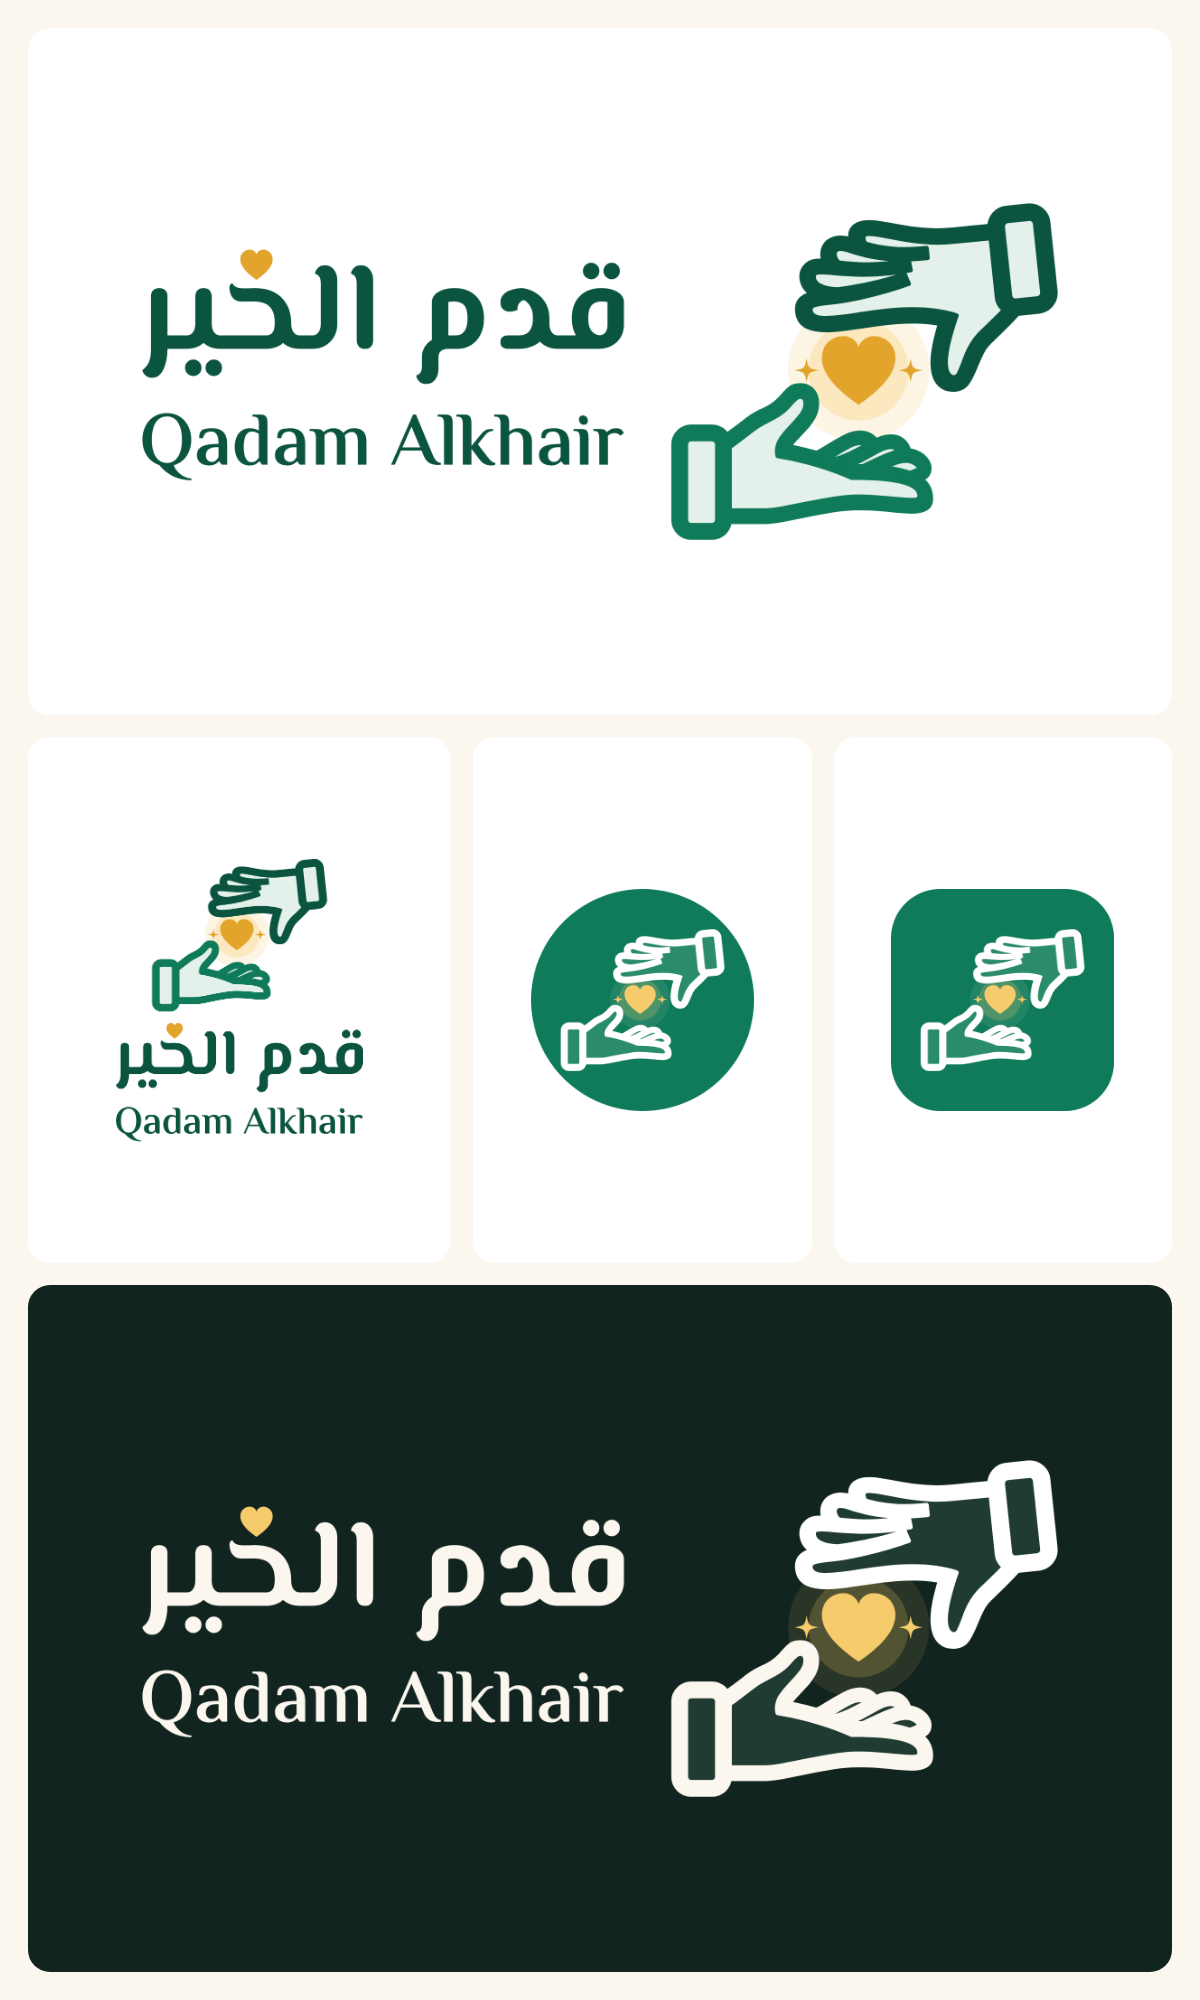
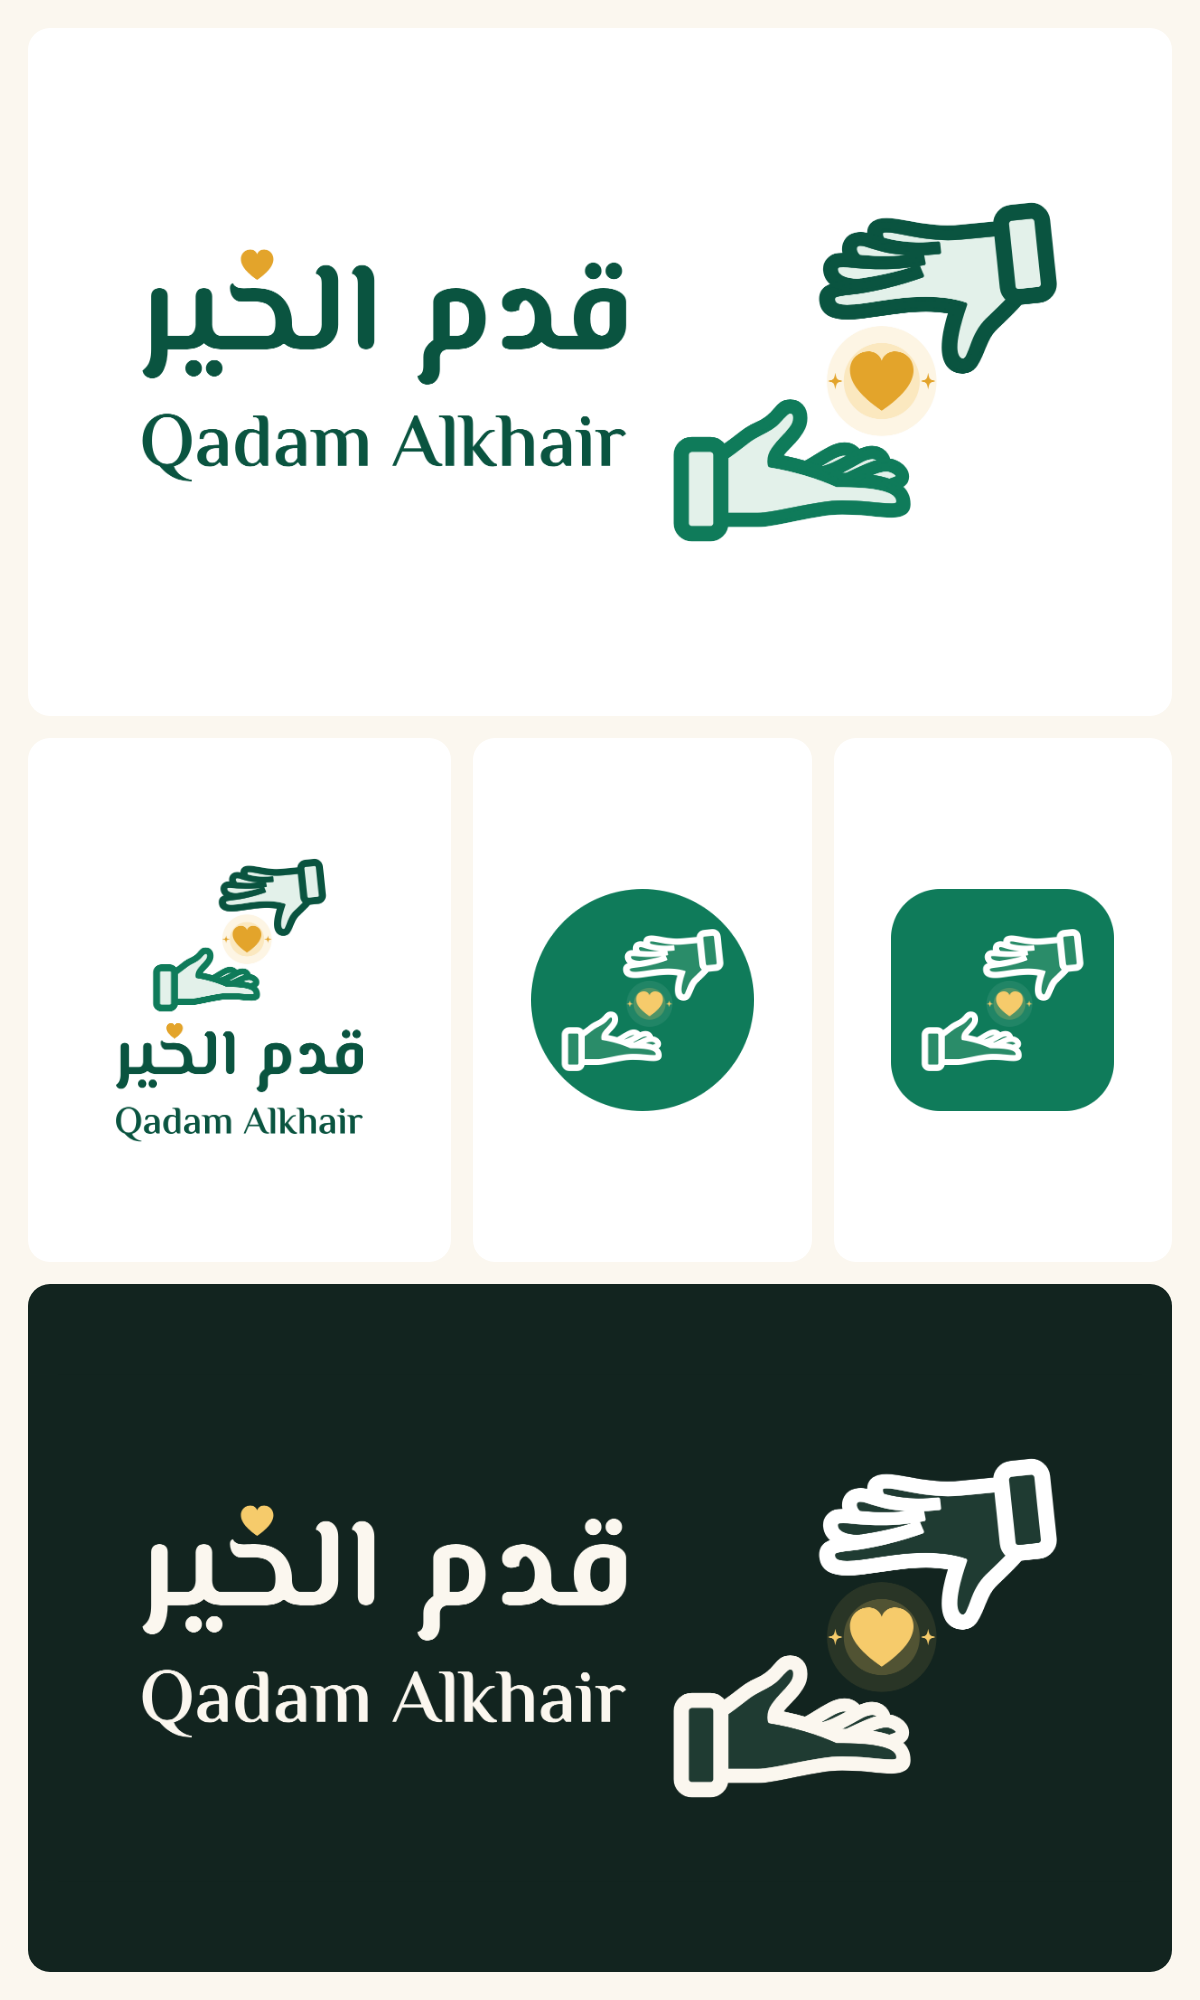
Two hands, round 3: keep the light and sparkles clear of the hands
The glow and the sparkles overlapped the fingers. The hands now move
apart a little, and the light, the heart and the sparkles sit inside
the largest circle that touches neither hand, with an even gap.

Claude-Session: https://claude.ai/code/session_01LFEZLNbpHHcGTMFhSMiQaG

diff --git a/brand/qadam-alkhair/explorations/hands-src/clear.py b/brand/qadam-alkhair/explorations/hands-src/clear.py
@@ -1,0 +1,55 @@
+# -*- coding: utf-8 -*-
+"""How big a circle fits between the two hands (with no overlap), for a given spread."""
+import os, subprocess, tempfile
+import numpy as np
+from PIL import Image
+import a2
+
+CHROME = "/opt/pw-browsers/chromium_headless_shell-1194/chrome-linux/headless_shell"
+PX = 2
+
+
+def hands(spread=0.0, lift=0.0, rot=-6):
+    """Giver moves up-right and receiver down-left by `spread`; both move up by `lift`."""
+    top = a2.place("palmDownHand", 64 + spread, 18 - spread - lift, 124, "#000", mirror=True, rot=rot, sw=40, wrist="cuff", style="tint", tint="#000", bg="#000")
+    bot = a2.place("palmUpHand", 12 - spread, 108 + spread - lift, 124, "#000", sw=40, wrist="cuff", style="tint", tint="#000", bg="#000")
+    return top + bot
+
+
+def mask(markup, lo=-40, size=280):
+    W = size * PX
+    html = (f'<html><body style="margin:0;background:#fff"><svg xmlns="http://www.w3.org/2000/svg" viewBox="{lo} {lo} {size} {size}" '
+            f'width="{W}" height="{W}">{markup}</svg></body></html>')
+    with tempfile.NamedTemporaryFile("w", suffix=".html", delete=False) as f:
+        f.write(html)
+    png = f.name + ".png"
+    subprocess.run([CHROME, "--headless", "--no-sandbox", "--disable-gpu", "--hide-scrollbars", f"--window-size={W},{W}",
+                    f"--screenshot={png}", "file://" + f.name], capture_output=True)
+    a = np.asarray(Image.open(png).convert("L")) < 128
+    os.unlink(f.name); os.unlink(png)
+    return a
+
+
+def best_circle(spread=0.0, lift=0.0, lo=-40, size=280, near=(97, 100), search=25, rot=-6):
+    """Centre (near `near`) of the largest circle touching no hand, and its radius."""
+    m = mask(hands(spread, lift, rot), lo, size)
+    edge = m & ~(np.roll(m, 1, 0) & np.roll(m, -1, 0) & np.roll(m, 1, 1) & np.roll(m, -1, 1))
+    ey, ex = np.nonzero(edge)
+    pts = np.stack([lo + ex / PX, lo + ey / PX], 1)
+    cx, cy = near
+    gx, gy = np.meshgrid(np.arange(cx - search, cx + search + 0.1, 0.5), np.arange(cy - search, cy + search + 0.1, 0.5))
+    cand = np.stack([gx.ravel(), gy.ravel()], 1)
+    best = np.full(len(cand), np.inf)
+    for i in range(0, len(pts), 4000):
+        d = np.sqrt(((cand[:, None, :] - pts[None, i:i + 4000, :]) ** 2).sum(-1)).min(1)
+        best = np.minimum(best, d)
+    # a candidate inside a hand is no good
+    inside = m[((cand[:, 1] - lo) * PX).astype(int).clip(0, m.shape[0] - 1), ((cand[:, 0] - lo) * PX).astype(int).clip(0, m.shape[1] - 1)]
+    best[inside] = 0
+    k = int(np.argmax(best))
+    return float(cand[k, 0]), float(cand[k, 1]), float(best[k])
+
+
+if __name__ == "__main__":
+    for spread in (0, 4, 8, 12):
+        print(spread, [round(v, 1) for v in best_circle(spread)])

diff --git a/brand/qadam-alkhair/explorations/hands-src/a3b.py b/brand/qadam-alkhair/explorations/hands-src/a3b.py
@@ -1,0 +1,36 @@
+# -*- coding: utf-8 -*-
+"""Round 3, fixed: the light, the heart and the sparkles sit in the clear space between
+the hands — nothing touches a hand."""
+import math
+import a2, hands3 as H
+import clear
+
+GOLD, GLOW_O, GLOW_I = a2.GOLD, "#FDF5E4", "#FBE8BF"
+
+
+def icon(spread=8, gap=6, band=10, heart_s=0.82, spark_r=4.6, spark_at="level", two=True,
+         green=a2.GREEN, gold=GOLD, glow=(GLOW_O, GLOW_I), giver=None, bg="#FFFFFF", tint="#E3F1EA",
+         glow_op=(1, 1), _cache={}):
+    key = spread
+    if key not in _cache:
+        _cache[key] = clear.best_circle(spread, near=(105, 105), search=18)
+    cx, cy, R = _cache[key]
+    kw = dict(sw=40, wrist="cuff", style="tint", tint=tint, bg=bg)
+    top = a2.place("palmDownHand", 64 + spread, 18 - spread, 124, giver or green, mirror=True, rot=-6, **kw)
+    bot = a2.place("palmUpHand", 12 - spread, 108 + spread, 124, green, **kw)
+    ro = R - gap
+    ri = ro - band if two else ro
+    g = ""
+    if glow:
+        g += f'<circle cx="{cx:.2f}" cy="{cy:.2f}" r="{ro:.2f}" fill="{glow[0]}" fill-opacity="{glow_op[0]}"/>'
+        if two:
+            g += f'<circle cx="{cx:.2f}" cy="{cy:.2f}" r="{ri:.2f}" fill="{glow[1]}" fill-opacity="{glow_op[1]}"/>'
+    # heart: centre its ink box on the light
+    g += H.heart(round(cx, 2), round(cy + 5.5 * heart_s, 2), heart_s, gold)
+    if spark_r:
+        rs = (ri + ro) / 2 if two else ro - spark_r - 1.5
+        angs = {"level": (0, 180), "high": (-38, 218)}[spark_at]
+        for a in angs:
+            t = math.radians(a)
+            g += a2.sparkle(round(cx + rs * math.cos(t), 2), round(cy + rs * math.sin(t), 2), spark_r, gold)
+    return top + bot + g, (cx, cy, R)

diff --git a/brand/qadam-alkhair/explorations/hands-src/a3_final.py b/brand/qadam-alkhair/explorations/hands-src/a3_final.py
@@ -1,24 +1,25 @@
 # -*- coding: utf-8 -*-
 """Option أ, third round — export the set and a one-page sheet."""
 import os, sys
-import kit as K, lock3 as L, a3, measure as M
+import kit as K, lock3 as L, a3, a3b, measure as M
 from shot import shot
 
 OUT = sys.argv[1] if len(sys.argv) > 1 else "a3out"
 os.makedirs(OUT, exist_ok=True)
 C = K.C
-LIGHT = dict(giver=C["green"])
-DARK = dict(green=C["cream"], gold=C["gold_lt"], tint="#1F3B32", bg=C["ink"], giver="#FFFFFF",
-            glow=((38, C["gold_lt"], 0.10), (27, C["gold_lt"], 0.20)))
-ONGREEN = dict(green="#FFFFFF", gold=C["gold_lt"], tint="#2A8C69", bg=C["step"],
-               glow=((38, "#FFFFFF", 0.08), (27, C["gold_lt"], 0.22)))
+SHAPE = dict(spread=10, heart_s=0.86, spark_r=5)
+LIGHT = dict(SHAPE, giver=C["green"])
+DARK = dict(SHAPE, green=C["cream"], gold=C["gold_lt"], tint="#1F3B32", bg=C["ink"], giver="#FFFFFF",
+            glow=(C["gold_lt"], C["gold_lt"]), glow_op=(0.10, 0.20))
+ONGREEN = dict(SHAPE, green="#FFFFFF", gold=C["gold_lt"], tint="#2A8C69", bg=C["step"],
+               glow=("#FFFFFF", C["gold_lt"]), glow_op=(0.08, 0.22))
 
 
 def fn(kw):
-    return lambda **_: a3.icon(**kw)
+    return lambda **_: a3b.icon(**kw)[0]
 
 
-BB = {k: M.ink_box(a3.icon(**v)) for k, v in (("light", LIGHT), ("dark", DARK), ("green", ONGREEN))}
+BB = {k: M.ink_box(fn(v)()) for k, v in (("light", LIGHT), ("dark", DARK), ("green", ONGREEN))}
 files = {
     "qadam-logo": (a3.horizontal(fn(LIGHT), BB["light"], bg="#FFFFFF"), 2400),
     "qadam-logo-stacked": (a3.stacked(fn(LIGHT), BB["light"], bg="#FFFFFF"), 1600),

diff --git a/brand/qadam-alkhair/explorations/hands-src/README.md b/brand/qadam-alkhair/explorations/hands-src/README.md
@@ -11,5 +11,6 @@ The hands are the Noto Emoji glyphs `palmDownHand` / `palmUpHand`
 | `a2.py` | أ developed: heavier line, cuffs, tilt, a level pair of sparkles, light fill |
 | `silhouette.py` → `silhouettes.json` | each hand's filled outline, traced with potrace |
 | `lock3.py`, `measure.py`, `shot.py` | lockups, ink-box measuring, PNG export |
-| `a3.py` | round 3: glow behind the heart, the dot of «خ» as a heart, darker giving hand |
+| `a3.py` | round 3: the dot of «خ» as a heart, darker giving hand, the lockups |
+| `a3b.py`, `clear.py` | round 3 fixed: the hands move apart and the light, heart and sparkles sit in the largest circle that clears both hands |
 | `opt_a.py`, `a2_final.py`, `a3_final.py` | the exported sets |
